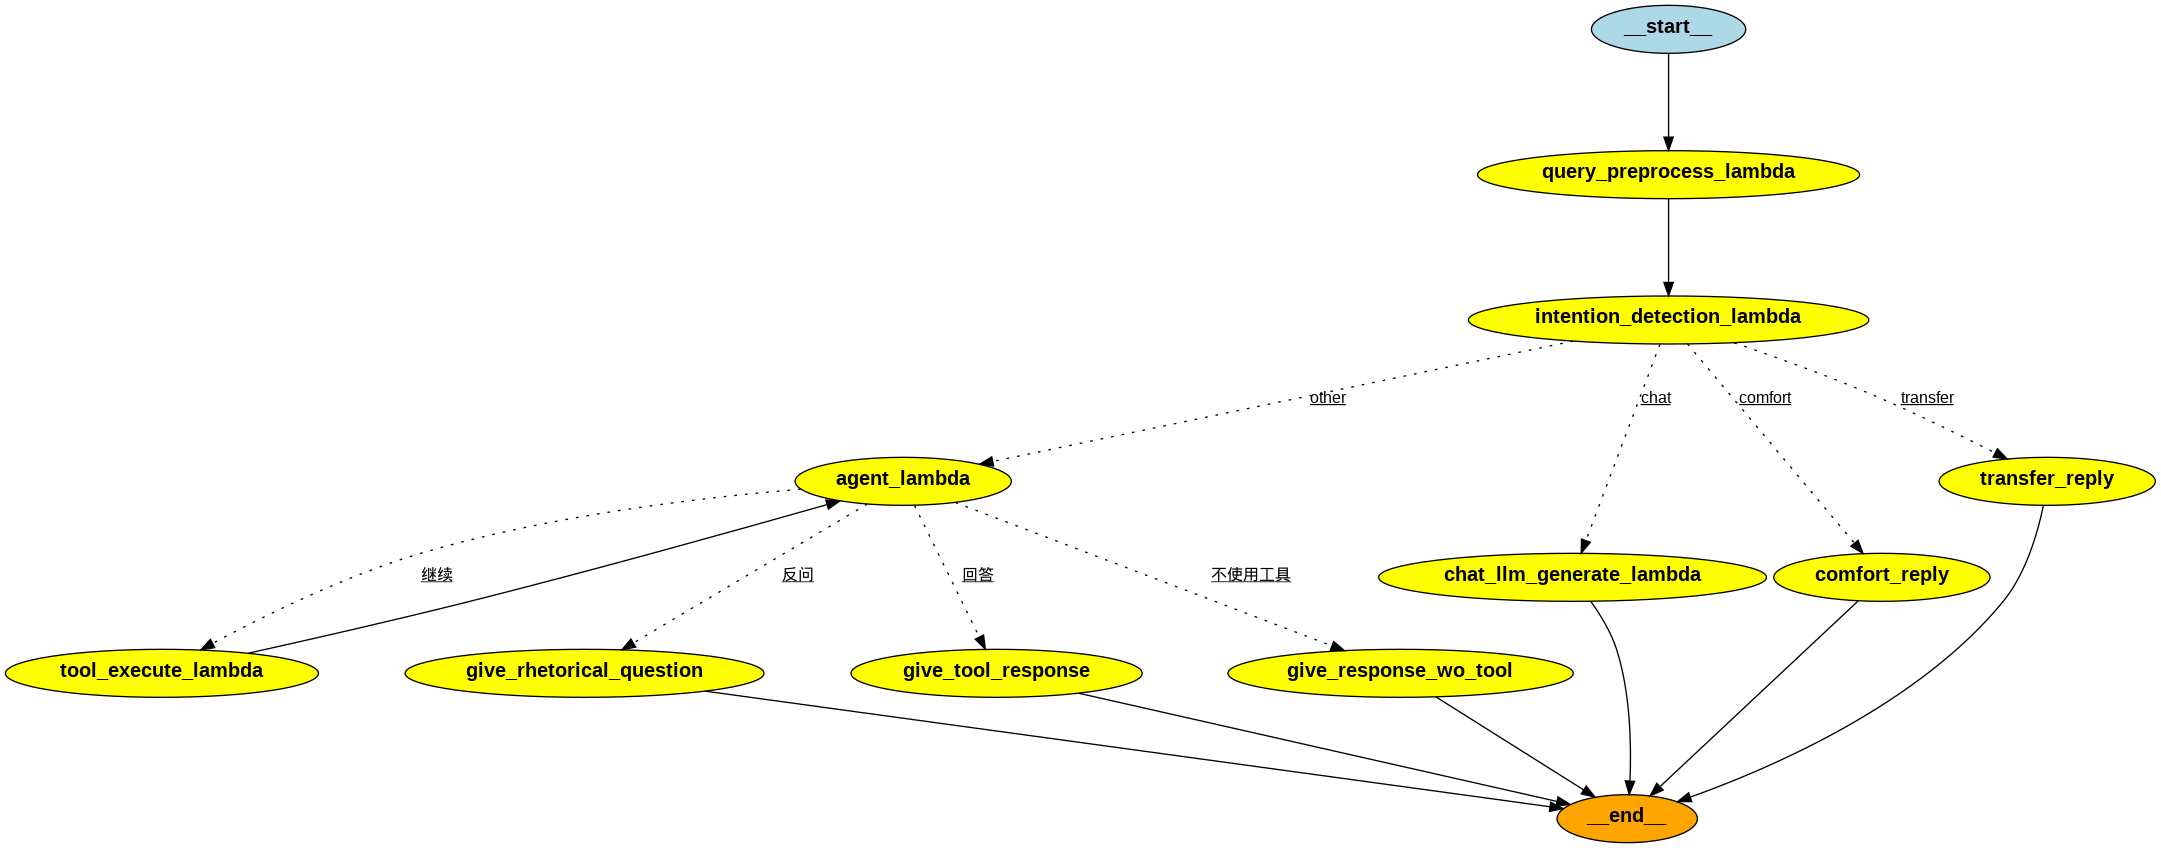
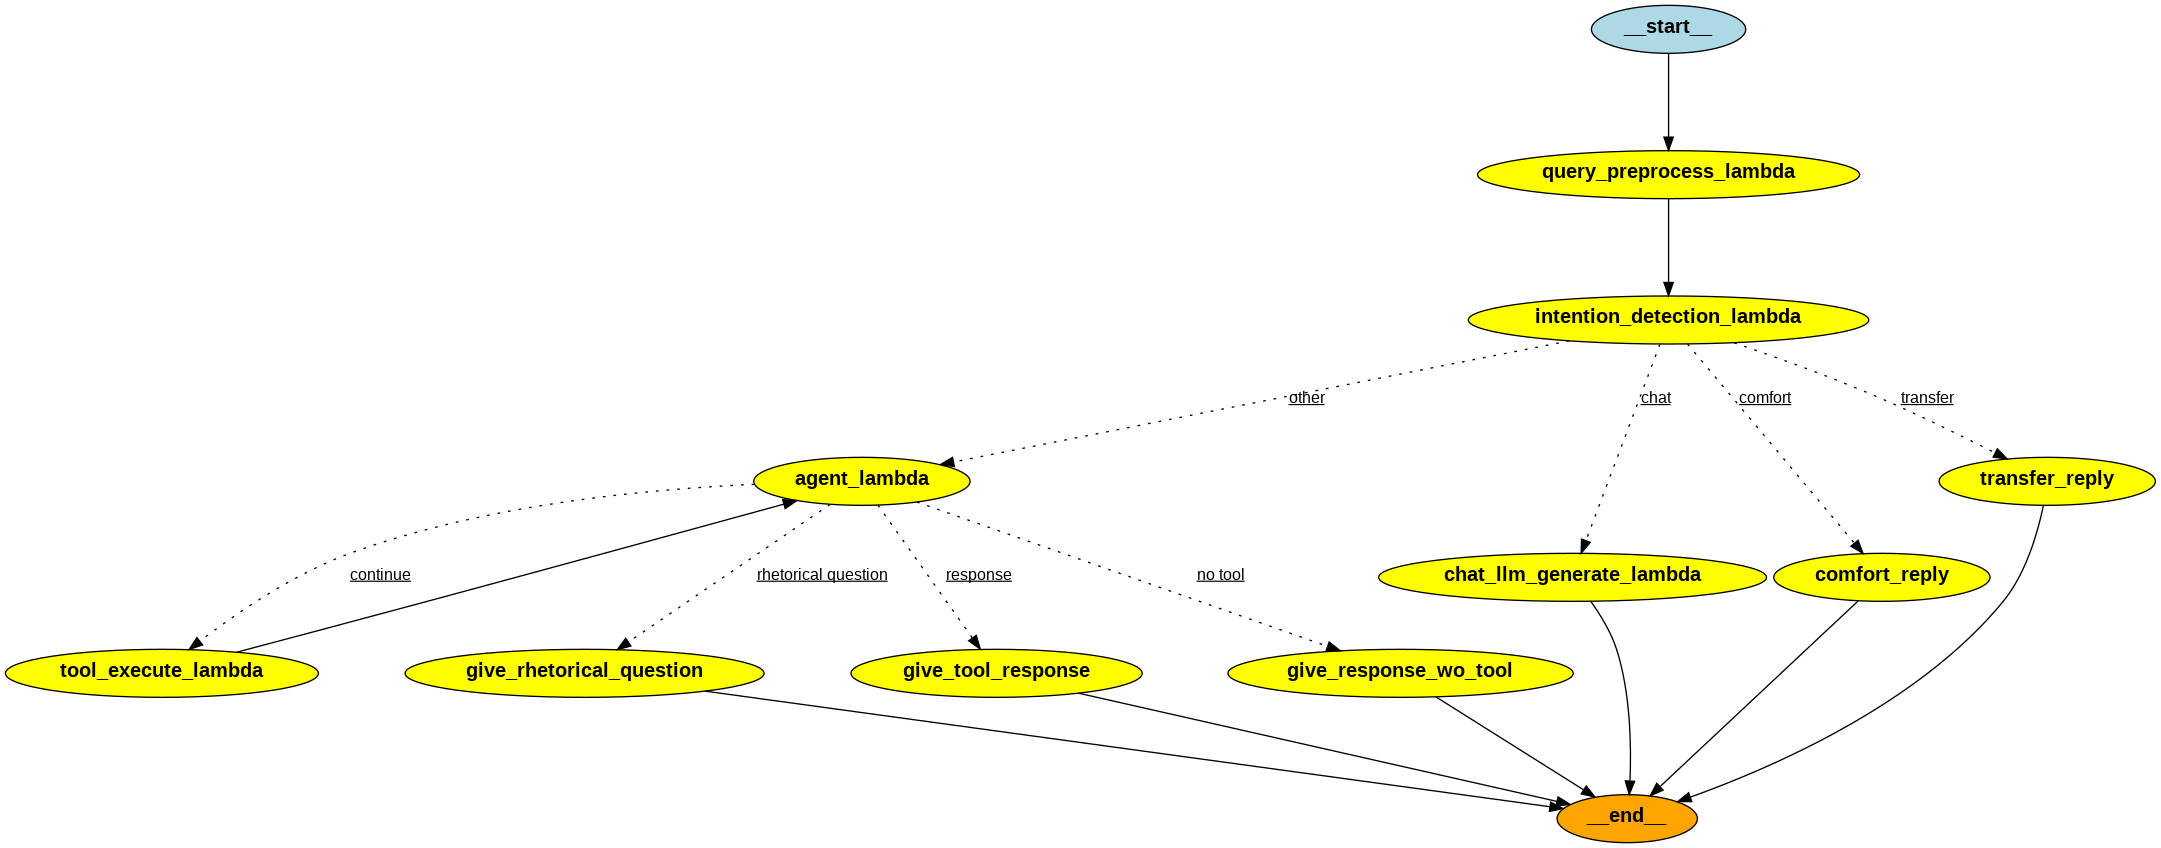
rename graph node name

diff --git a/source/lambda/online/lambda_main/main_utils/online_entries/common_entry.py b/source/lambda/online/lambda_main/main_utils/online_entries/common_entry.py
@@ -204,39 +204,6 @@ def tool_execute_lambda(state: ChatbotState):
     }]}
     
 
-# def tag_llm_generate_lambda(state: NestUpdateState):
-#     """
-#     基于各类工具的结果进行生成
-#     Args:
-#         state (NestUpdateState): _description_
-#     Returns:
-#         _type_: _description_
-#     """
-#     # state = state['keys']
-#     # # run in lambda
-#     # msg = {"query": state['query']}
-#     # invoke_response = lambda_client.invoke(FunctionName="Online_LLM_Generate",
-#     #                                     InvocationType='RequestResponse',
-#     #                                     Payload=json.dumps(msg))
-#     # response_body = invoke_response['Payload']
-
-#     # response_str = response_body.read().decode("unicode_escape")
-#     # response_str = response_str.strip('"')
-
-#     # response = json.loads(response_str)
-#     # state['answer'] = response['body']['answer']
-#     state = state['keys']
-#     output:dict = invoke_lambda(
-#         event_body={
-#             "llm_config":'xx',
-#             "llm_inputs": state
-#         },
-#         lambda_name="Online_LLM_Generate",
-#         lambda_module_path="lambda_llm_generate.llm_generate",
-#         handler_name="lambda_handler"
-#     )
-#     return {"keys":output}
-
 
 def chat_llm_generate_lambda(state:ChatbotState):
     answer:dict = invoke_lambda(
@@ -284,17 +251,17 @@ def intent_route(state:dict):
 def agent_route(state:dict):
     recent_tool_calls:list[dict] = state['current_tool_calls']
     if not recent_tool_calls:
-        return "不使用工具"
+        return "no tool"
     
     recent_tool_call = recent_tool_calls[0]
     # 反问
     if recent_tool_call['name'] == "give_rhetorical_question":
-        return "反问"
+        return "rhetorical question"
 
     if recent_tool_call['name'] == "give_final_response":
-        return "回答"
+        return "response"
 
-    return "继续"
+    return "continue"
      
 
 #############################
@@ -346,10 +313,10 @@ def build_graph():
         "agent_lambda",
         agent_route,
         {
-            "不使用工具": "give_response_wo_tool",
-            "反问": "give_rhetorical_question",
-            "回答": "give_tool_response",
-            "继续":"tool_execute_lambda"
+            "no tool": "give_response_wo_tool",
+            "rhetorical question": "give_rhetorical_question",
+            "response": "give_tool_response",
+            "continue":"tool_execute_lambda"
         }
     )
     app = workflow.compile()
@@ -368,8 +335,8 @@ def common_entry(event_body):
     if app is None:
         app = build_graph()
 
-    # with open('common_entry_workflow.png','wb') as f:
-    #     f.write(app.get_graph().draw_png())
+    with open('common_entry_workflow.png','wb') as f:
+        f.write(app.get_graph().draw_png())
     
     ################################################################################
     # prepare inputs and invoke graph
